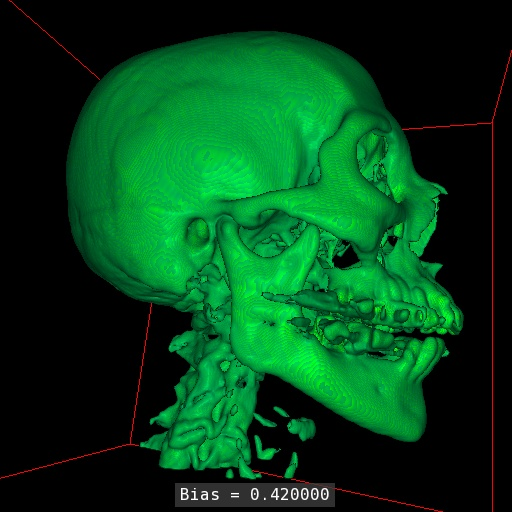
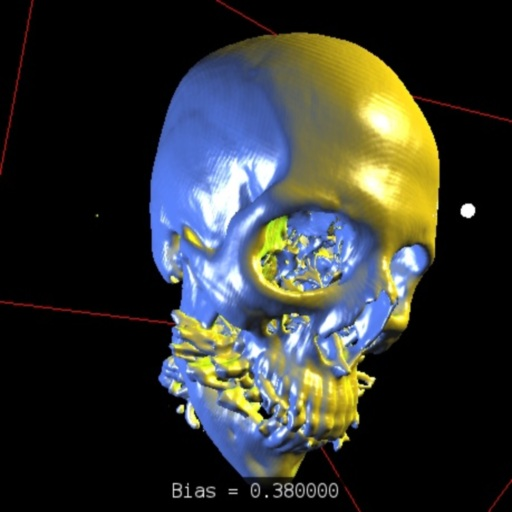
final touches

diff --git a/Visualization_Library_SDK/src/examples/Applets/App_VolumeRendering.cpp b/Visualization_Library_SDK/src/examples/Applets/App_VolumeRendering.cpp
@@ -44,7 +44,7 @@ using namespace vl;
 static bool USE_GLSL = true;
 
 /* If enabled, renders the volume using 3 animated lights. Requires USE_GLSL. */
-static bool DYNAMIC_LIGHTS = false; 
+static bool DYNAMIC_LIGHTS = true; 
 
 /* If enabled, a white transfer function is used and 3 colored lights 
    are used to render the volume. Used only if DYNAMIC_LIGHTS is true. */
@@ -52,7 +52,7 @@ static bool COLORED_LIGHTS = true;
 
 /* Use a separate 3d texture with a precomputed gradient to speedup the fragment shader.
    Requires more memory (for the gradient texture) but can speedup the rendering. */
-static bool PRECOMPUTE_GRADIENT = false; // only if USE_GLSL is true
+static bool PRECOMPUTE_GRADIENT = false; // only if USE_GLSL is true.
 
 /* The number of slices used to render the volume, the higher the number the better 
   (and slower) the rendering will be. */
